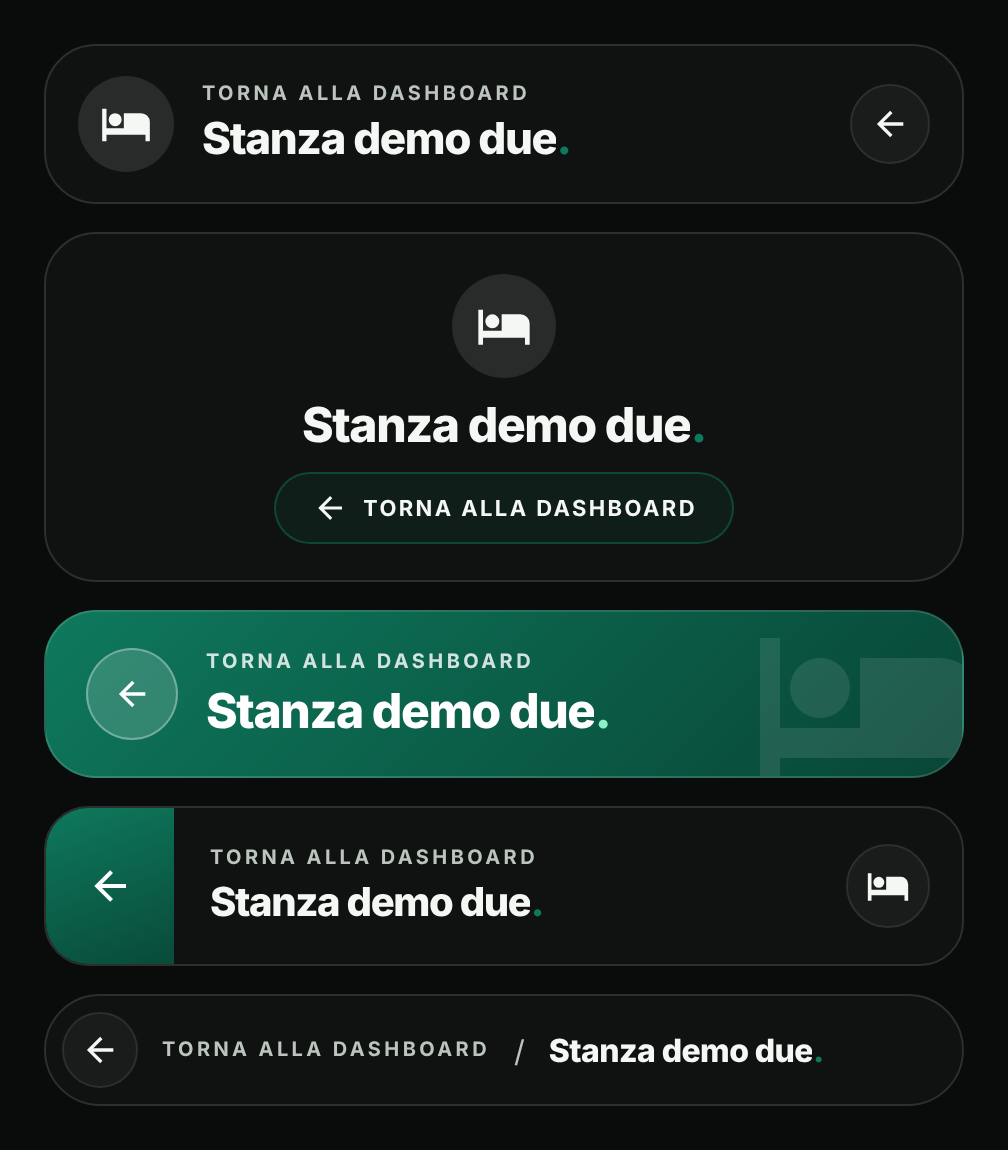
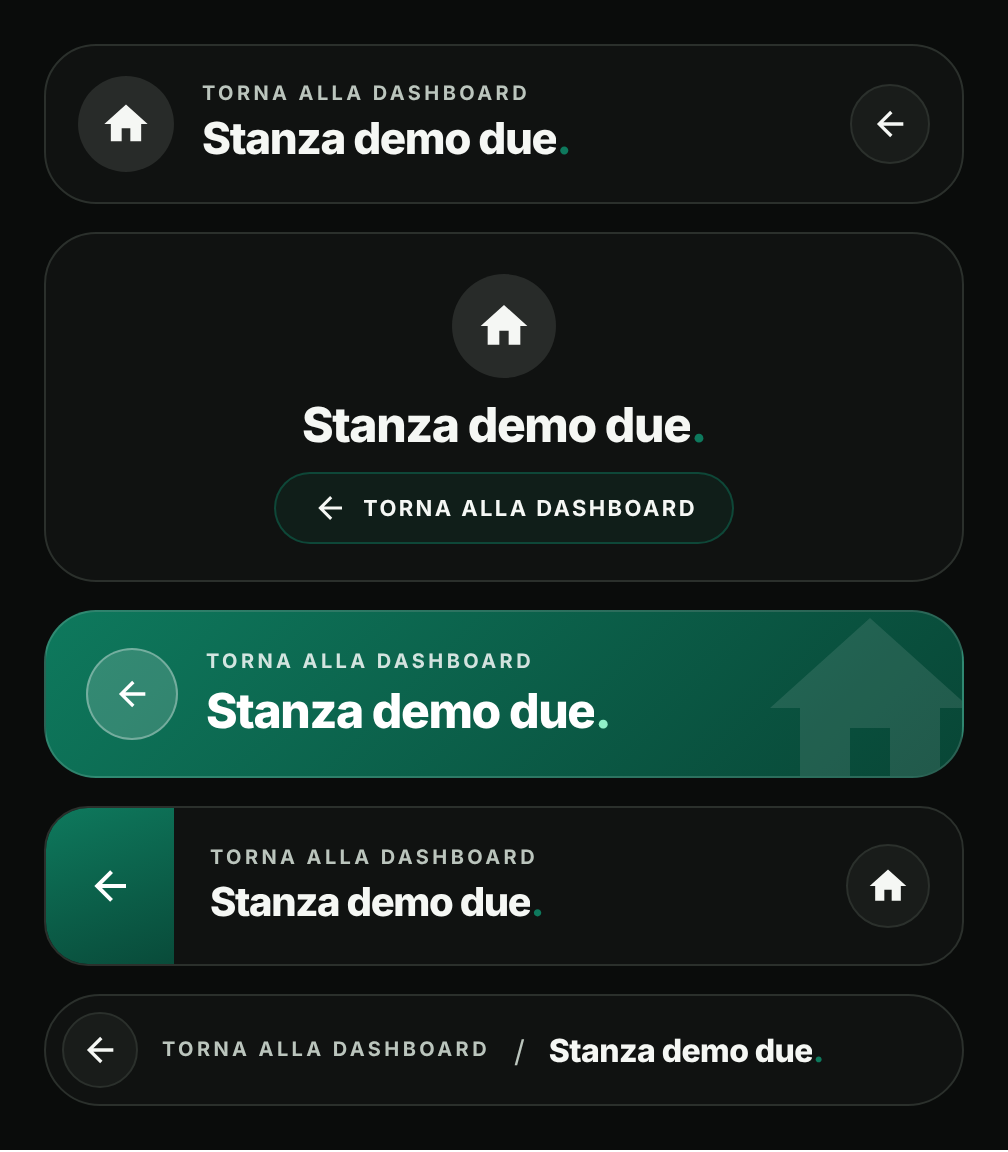
Update Home Return Card to 1.1

diff --git a/dist/home-return-card.js b/dist/home-return-card.js
@@ -6,14 +6,23 @@
 const HR_TAG = 'home-return-card';
 const HR_EDITOR_TAG = 'home-return-card-editor';
 const HR_STYLES = Object.freeze(['row', 'centered', 'solid', 'split', 'slim']);
+const HR_DENSITIES = Object.freeze({ standard: 'Standard', thin: 'Sottile' });
 const HR_STYLE_LABEL = Object.freeze({
   row: 'Riga con freccia', centered: 'Centrata', solid: 'Smeraldo pieno', split: 'Pannello freccia', slim: 'Percorso sottile',
 });
 const HR_DEFAULTS = Object.freeze({
-  style: 'row', navigation_path: '', label: 'Torna alla dashboard', title: '',
-  show_name: false, name: 'Home Return Card', icon: '', auto_page: true, theme_mode: 'auto',
+  style: 'row', density: 'standard', navigation_path: '', label: 'Torna alla dashboard', title: '',
+  arrow: 'left', show_name: false, name: 'HOME RETURN CARD', icon: '', auto_page: true, theme_mode: 'auto',
 });
-const HR_FALLBACK_ICON = 'mdi:floor-plan';
+const HR_FALLBACK_ICON = 'mdi:view-dashboard';
+// Arrow shown on the button: the user chooses it in the editor. "left" is the default.
+const HR_ARROWS = Object.freeze({
+  left: { icon: 'mdi:arrow-left', label: 'Freccia a sinistra' },
+  up: { icon: 'mdi:arrow-up', label: 'Freccia in alto' },
+  return: { icon: 'mdi:keyboard-return', label: 'Ritorno' },
+  check: { icon: 'mdi:check', label: 'Spunta' },
+  exit: { icon: 'mdi:exit-to-app', label: 'Cambio vista' },
+});
 const HR_CACHE = new Map();
 
 function hrText(value, max = 100) { return String(value ?? '').trim().slice(0, max); }
@@ -31,12 +40,20 @@ function hrIconName(value) {
   const v = hrText(value, 80).toLowerCase();
   return /^[a-z0-9-]+:[a-z0-9-]+$/.test(v) ? v : '';
 }
+// Icon of a dashboard as registered in the sidebar (hass.panels[url_path].icon). Optional: returns '' when unavailable.
+function hrDashIcon(hass, dash) {
+  const panels = hass && typeof hass.panels === 'object' ? hass.panels : null;
+  const panel = panels && dash ? panels[dash] : null;
+  return panel && typeof panel === 'object' ? hrIconName(panel.icon) : '';
+}
 function hrConfig(raw = {}) {
   const r = raw && typeof raw === 'object' && !Array.isArray(raw) ? raw : {};
   return {
     type: 'custom:home-return-card',
     style: HR_STYLES.includes(r.style) ? r.style : HR_DEFAULTS.style,
+    density: Object.prototype.hasOwnProperty.call(HR_DENSITIES, r.density) ? r.density : HR_DEFAULTS.density,
     navigation_path: hrPath(r.navigation_path),
+    arrow: Object.prototype.hasOwnProperty.call(HR_ARROWS, r.arrow) ? r.arrow : HR_DEFAULTS.arrow,
     label: hrText(r.label ?? HR_DEFAULTS.label, 60),
     title: hrText(r.title, 60),
     show_name: r.show_name === true,
@@ -109,8 +126,7 @@ ha-icon{display:inline-flex;align-items:center;justify-content:center;flex-shrin
 .hr-go ha-icon{--mdc-icon-size:20px;width:20px;height:20px}
 .hr-text{flex:1;min-width:0;display:flex;flex-direction:column;gap:5px}
 .hr-eyebrow{display:block;font-size:10px;letter-spacing:1.7px;font-weight:750;color:var(--hr-muted);text-transform:uppercase;white-space:nowrap;overflow:hidden;text-overflow:ellipsis}
-.hr-name{display:flex;min-width:0;height:24px;align-items:center;margin:0 4px 9px;font-size:16px;line-height:1.2;font-weight:780;letter-spacing:-.4px;color:var(--hr-fg)}
-.hr-name .hr-nt{min-width:0;overflow:hidden;text-overflow:ellipsis;white-space:nowrap}.hr-name b{flex:none;color:var(--hr-accent);font-weight:800}
+.hr-name{display:block;height:14px;margin:0 4px 10px;font-size:10px;line-height:14px;letter-spacing:1.7px;font-weight:750;color:var(--hr-muted);text-transform:uppercase;white-space:nowrap;overflow:hidden;text-overflow:ellipsis}
 .hr-title{display:flex;min-width:0;font-size:22px;line-height:1.14;font-weight:780;letter-spacing:-.7px}
 .hr-title .hr-t{min-width:0;overflow:hidden;text-overflow:ellipsis;white-space:nowrap}
 .hr-title b{flex:none;color:var(--hr-accent);font-weight:800}
@@ -147,6 +163,20 @@ ha-icon{display:inline-flex;align-items:center;justify-content:center;flex-shrin
 .hr-slim .hr-eyebrow{flex:none;max-width:45%}
 .hr-sep{flex:none;color:var(--hr-muted);font-size:15px}
 .hr-slim .hr-title{flex:1;font-size:16px;letter-spacing:-.3px}
+/* Altezza sottile: stessi elementi, spazi e cerchi più piccoli (l'area di tocco resta di almeno 46 px) */
+.hr-thin.hr-row{padding:8px 14px;gap:12px;border-radius:22px;min-height:56px}
+.hr-thin.hr-row .hr-orb{width:38px;height:38px}.hr-thin.hr-row .hr-orb ha-icon{--mdc-icon-size:21px;width:21px;height:21px}
+.hr-thin .hr-text{gap:2px}.hr-thin.hr-row .hr-title{font-size:18px}.hr-thin.hr-row .hr-go{width:34px;height:34px}
+.hr-thin.hr-centered{padding:12px 14px;gap:6px;border-radius:22px;min-height:56px}
+.hr-thin.hr-centered .hr-orb{width:40px;height:40px}.hr-thin.hr-centered .hr-orb ha-icon{--mdc-icon-size:22px;width:22px;height:22px}
+.hr-thin.hr-centered .hr-title{font-size:20px}.hr-thin .hr-pill{min-height:30px;padding:5px 14px}
+.hr-thin.hr-solid{padding:9px 16px;gap:12px;border-radius:22px;min-height:56px}
+.hr-thin.hr-solid .hr-title{font-size:19px}.hr-thin.hr-solid .hr-go{width:38px;height:38px}
+.hr-thin .hr-mark{right:-10px;top:-8px}.hr-thin .hr-mark ha-icon{--mdc-icon-size:84px;width:84px;height:84px}
+.hr-thin.hr-split{min-height:56px;border-radius:20px}.hr-thin .hr-pan{width:52px}
+.hr-thin .hr-body{padding:8px 14px 8px 16px}.hr-thin.hr-split .hr-title{font-size:17px}
+.hr-thin.hr-split .hr-orb{width:34px;height:34px}.hr-thin.hr-split .hr-orb ha-icon{--mdc-icon-size:19px;width:19px;height:19px}
+.hr-thin.hr-slim{min-height:46px;padding:5px 16px 5px 6px}.hr-thin.hr-slim .hr-go{width:32px;height:32px}.hr-thin.hr-slim .hr-title{font-size:15px}
 @container hr-card (max-width:340px){
   .hr-row{padding:12px 13px;gap:11px;border-radius:23px}.hr-row .hr-orb{width:42px;height:42px}.hr-row .hr-orb ha-icon{--mdc-icon-size:23px;width:23px;height:23px}
   .hr-row .hr-title{font-size:20px}.hr-go{width:36px;height:36px}
@@ -186,6 +216,8 @@ class HomeReturnCard extends HTMLElement {
   setConfig(raw) { this._config = hrConfig(raw); this._asked = ''; this._last = ''; this._paint(); this._ensurePage(); }
   set hass(hass) { this._hass = hass; this._paint(); this._ensurePage(); }
   getCardSize() { return 2; }
+  // Sections view: full width (also in wide sections). Rows are left undefined so the card keeps its own height.
+  getGridOptions() { return { columns: 'full' }; }
   _isDark() {
     const mode = this._config.theme_mode;
     return mode === 'dark' || (mode === 'auto' && (this._hass?.themes?.darkMode === true || (!this._hass?.themes && this._media?.matches === true)));
@@ -197,7 +229,9 @@ class HomeReturnCard extends HTMLElement {
     const loc = this._loc();
     const cached = HR_CACHE.get(loc.dash)?.config;
     const info = cached ? hrPageInfo(cached, loc) : { title: hrHumanize(loc.view) || hrHumanize(loc.dash), icon: '' };
-    return { title: this._config.title || info.title, icon: this._config.icon || info.icon || HR_FALLBACK_ICON };
+    const dash = this._config.navigation_path ? hrSplitLocation(this._config.navigation_path).dash : loc.dash;
+    const icon = this._config.icon || hrDashIcon(this._hass, dash) || info.icon || HR_FALLBACK_ICON;
+    return { title: this._config.title || info.title, icon };
   }
   _ensurePage() {
     const c = this._config, hass = this._hass;
@@ -214,10 +248,10 @@ class HomeReturnCard extends HTMLElement {
     const sig = JSON.stringify([c, dark, page]);
     if (sig === this._last) return;
     this._last = sig;
-    this.shadowRoot.innerHTML = `<style>${HR_STYLE}</style><div class="hr-theme ${dark ? 'hr-dark' : 'hr-light'}"><div class="hr-host">${c.show_name ? `<div class="hr-name"><span class="hr-nt">${hrEsc(c.name)}</span><b>.</b></div>` : ''}${this._button(c, page)}</div></div>`;
+    this.shadowRoot.innerHTML = `<style>${HR_STYLE}</style><div class="hr-theme ${dark ? 'hr-dark' : 'hr-light'}"><div class="hr-host">${c.show_name ? `<div class="hr-name">${hrEsc(c.name)}</div>` : ''}${this._button(c, page)}</div></div>`;
   }
   _button(c, page) {
-    const arrow = '<ha-icon icon="mdi:arrow-left"></ha-icon>';
+    const arrow = `<ha-icon icon="${HR_ARROWS[c.arrow].icon}"></ha-icon>`;
     const room = `<ha-icon icon="${hrEsc(page.icon)}"></ha-icon>`;
     const label = c.label ? `<span class="hr-eyebrow">${hrEsc(c.label)}</span>` : '';
     const title = page.title ? `<span class="hr-title"><span class="hr-t">${hrEsc(page.title)}</span><b>.</b></span>` : '';
@@ -225,7 +259,7 @@ class HomeReturnCard extends HTMLElement {
     const notext = text ? '' : ' hr-notext';
     const off = c.navigation_path ? '' : ' hr-off';
     const name = `${c.label || HR_DEFAULTS.label}${page.title ? `, da ${page.title}` : ''}`;
-    const open = `<button type="button" class="hr-btn hr-${c.style}${notext}${off}" aria-label="${hrEsc(name)}"${c.navigation_path ? '' : ' aria-disabled="true" title="Scegli la destinazione nell’editor"'}>`;
+    const open = `<button type="button" class="hr-btn hr-${c.style}${c.density === 'thin' ? ' hr-thin' : ''}${notext}${off}" aria-label="${hrEsc(name)}"${c.navigation_path ? '' : ' aria-disabled="true" title="Scegli la destinazione nell’editor"'}>`;
     const block = text ? `<span class="hr-text">${text}</span>` : '';
     switch (c.style) {
       case 'centered':
@@ -309,11 +343,13 @@ class HomeReturnCardEditor extends HTMLElement {
     if (this._tab === 'aspetto') {
       body = '<div class="hr-heading">Aspetto Edera</div><div class="hr-desc">Stile, testi e tema della card. Etichetta e nome della pagina sono sempre visibili; il nome della card è facoltativo.</div>' +
         this._select('style', 'Stile', HR_STYLES.map(s => [s, HR_STYLE_LABEL[s]]), c.style) +
+        this._select('density', 'Altezza', Object.entries(HR_DENSITIES), c.density) +
+        this._select('arrow', 'Freccia', Object.entries(HR_ARROWS).map(([k, v]) => [k, v.label]), c.arrow) +
         this._input('label', 'Etichetta', c.label, 'Il testo piccolo in maiuscolo sopra il nome della pagina.') +
         this._input('title', 'Titolo personalizzato', c.title, 'Lascia vuoto per usare il nome della pagina corrente, con il punto verde finale.') +
-        this._check('show_name', 'name', 'Mostra nome della card', c.show_name, 'Intestazione facoltativa sopra la card, con il punto verde finale. Disattivata di default.') +
+        this._check('show_name', 'name', 'Mostra nome della card', c.show_name, 'Piccola intestazione in maiuscolo sopra la card, come nelle altre card. Disattivata di default.') +
         (c.show_name ? this._input('name', 'Nome della card', c.name) : '') +
-        this._field('Icona', `<div data-host="icon"></div><div class="hr-fallback"><input class="hr-input" type="text" maxlength="80" placeholder="mdi:floor-plan" data-key="icon" value="${hrEsc(c.icon)}"/></div>`, 'Lascia vuoto per usare l’icona della pagina.') +
+        this._field('Icona', `<div data-host="icon"></div><div class="hr-fallback"><input class="hr-input" type="text" maxlength="80" placeholder="mdi:floor-plan" data-key="icon" value="${hrEsc(c.icon)}"/></div>`, 'Lascia vuoto per usare l’icona della dashboard.') +
         this._select('theme_mode', 'Tema', [['auto', 'Auto (Home Assistant)'], ['light', 'Light Edera'], ['dark', 'Dark Edera']], c.theme_mode);
     }
     if (this._tab === 'avanzate') {
@@ -360,4 +396,4 @@ if (typeof window !== 'undefined') {
   window.customCards = window.customCards || [];
   if (!window.customCards.some(c => c.type === HR_TAG)) window.customCards.push({ type: HR_TAG, name: 'Home Return Card', description: 'Riporta alla dashboard principale da ogni pagina, in stile Edera.', preview: true });
 }
-export { hrConfig, hrPath, hrIconName, hrSplitLocation, hrHumanize, hrFindView, hrPageInfo, hrLoadDashboard, hrEsc, HR_CACHE, HR_STYLES };
+export { HomeReturnCard, HR_DENSITIES, HR_ARROWS, hrDashIcon, hrConfig, hrPath, hrIconName, hrSplitLocation, hrHumanize, hrFindView, hrPageInfo, hrLoadDashboard, hrEsc, HR_CACHE, HR_STYLES };

diff --git a/src/home-return-card.js b/src/home-return-card.js
@@ -6,14 +6,23 @@
 const HR_TAG = 'home-return-card';
 const HR_EDITOR_TAG = 'home-return-card-editor';
 const HR_STYLES = Object.freeze(['row', 'centered', 'solid', 'split', 'slim']);
+const HR_DENSITIES = Object.freeze({ standard: 'Standard', thin: 'Sottile' });
 const HR_STYLE_LABEL = Object.freeze({
   row: 'Riga con freccia', centered: 'Centrata', solid: 'Smeraldo pieno', split: 'Pannello freccia', slim: 'Percorso sottile',
 });
 const HR_DEFAULTS = Object.freeze({
-  style: 'row', navigation_path: '', label: 'Torna alla dashboard', title: '',
-  show_name: false, name: 'Home Return Card', icon: '', auto_page: true, theme_mode: 'auto',
+  style: 'row', density: 'standard', navigation_path: '', label: 'Torna alla dashboard', title: '',
+  arrow: 'left', show_name: false, name: 'HOME RETURN CARD', icon: '', auto_page: true, theme_mode: 'auto',
 });
-const HR_FALLBACK_ICON = 'mdi:floor-plan';
+const HR_FALLBACK_ICON = 'mdi:view-dashboard';
+// Arrow shown on the button: the user chooses it in the editor. "left" is the default.
+const HR_ARROWS = Object.freeze({
+  left: { icon: 'mdi:arrow-left', label: 'Freccia a sinistra' },
+  up: { icon: 'mdi:arrow-up', label: 'Freccia in alto' },
+  return: { icon: 'mdi:keyboard-return', label: 'Ritorno' },
+  check: { icon: 'mdi:check', label: 'Spunta' },
+  exit: { icon: 'mdi:exit-to-app', label: 'Cambio vista' },
+});
 const HR_CACHE = new Map();
 
 function hrText(value, max = 100) { return String(value ?? '').trim().slice(0, max); }
@@ -31,12 +40,20 @@ function hrIconName(value) {
   const v = hrText(value, 80).toLowerCase();
   return /^[a-z0-9-]+:[a-z0-9-]+$/.test(v) ? v : '';
 }
+// Icon of a dashboard as registered in the sidebar (hass.panels[url_path].icon). Optional: returns '' when unavailable.
+function hrDashIcon(hass, dash) {
+  const panels = hass && typeof hass.panels === 'object' ? hass.panels : null;
+  const panel = panels && dash ? panels[dash] : null;
+  return panel && typeof panel === 'object' ? hrIconName(panel.icon) : '';
+}
 function hrConfig(raw = {}) {
   const r = raw && typeof raw === 'object' && !Array.isArray(raw) ? raw : {};
   return {
     type: 'custom:home-return-card',
     style: HR_STYLES.includes(r.style) ? r.style : HR_DEFAULTS.style,
+    density: Object.prototype.hasOwnProperty.call(HR_DENSITIES, r.density) ? r.density : HR_DEFAULTS.density,
     navigation_path: hrPath(r.navigation_path),
+    arrow: Object.prototype.hasOwnProperty.call(HR_ARROWS, r.arrow) ? r.arrow : HR_DEFAULTS.arrow,
     label: hrText(r.label ?? HR_DEFAULTS.label, 60),
     title: hrText(r.title, 60),
     show_name: r.show_name === true,
@@ -109,8 +126,7 @@ ha-icon{display:inline-flex;align-items:center;justify-content:center;flex-shrin
 .hr-go ha-icon{--mdc-icon-size:20px;width:20px;height:20px}
 .hr-text{flex:1;min-width:0;display:flex;flex-direction:column;gap:5px}
 .hr-eyebrow{display:block;font-size:10px;letter-spacing:1.7px;font-weight:750;color:var(--hr-muted);text-transform:uppercase;white-space:nowrap;overflow:hidden;text-overflow:ellipsis}
-.hr-name{display:flex;min-width:0;height:24px;align-items:center;margin:0 4px 9px;font-size:16px;line-height:1.2;font-weight:780;letter-spacing:-.4px;color:var(--hr-fg)}
-.hr-name .hr-nt{min-width:0;overflow:hidden;text-overflow:ellipsis;white-space:nowrap}.hr-name b{flex:none;color:var(--hr-accent);font-weight:800}
+.hr-name{display:block;height:14px;margin:0 4px 10px;font-size:10px;line-height:14px;letter-spacing:1.7px;font-weight:750;color:var(--hr-muted);text-transform:uppercase;white-space:nowrap;overflow:hidden;text-overflow:ellipsis}
 .hr-title{display:flex;min-width:0;font-size:22px;line-height:1.14;font-weight:780;letter-spacing:-.7px}
 .hr-title .hr-t{min-width:0;overflow:hidden;text-overflow:ellipsis;white-space:nowrap}
 .hr-title b{flex:none;color:var(--hr-accent);font-weight:800}
@@ -147,6 +163,20 @@ ha-icon{display:inline-flex;align-items:center;justify-content:center;flex-shrin
 .hr-slim .hr-eyebrow{flex:none;max-width:45%}
 .hr-sep{flex:none;color:var(--hr-muted);font-size:15px}
 .hr-slim .hr-title{flex:1;font-size:16px;letter-spacing:-.3px}
+/* Altezza sottile: stessi elementi, spazi e cerchi più piccoli (l'area di tocco resta di almeno 46 px) */
+.hr-thin.hr-row{padding:8px 14px;gap:12px;border-radius:22px;min-height:56px}
+.hr-thin.hr-row .hr-orb{width:38px;height:38px}.hr-thin.hr-row .hr-orb ha-icon{--mdc-icon-size:21px;width:21px;height:21px}
+.hr-thin .hr-text{gap:2px}.hr-thin.hr-row .hr-title{font-size:18px}.hr-thin.hr-row .hr-go{width:34px;height:34px}
+.hr-thin.hr-centered{padding:12px 14px;gap:6px;border-radius:22px;min-height:56px}
+.hr-thin.hr-centered .hr-orb{width:40px;height:40px}.hr-thin.hr-centered .hr-orb ha-icon{--mdc-icon-size:22px;width:22px;height:22px}
+.hr-thin.hr-centered .hr-title{font-size:20px}.hr-thin .hr-pill{min-height:30px;padding:5px 14px}
+.hr-thin.hr-solid{padding:9px 16px;gap:12px;border-radius:22px;min-height:56px}
+.hr-thin.hr-solid .hr-title{font-size:19px}.hr-thin.hr-solid .hr-go{width:38px;height:38px}
+.hr-thin .hr-mark{right:-10px;top:-8px}.hr-thin .hr-mark ha-icon{--mdc-icon-size:84px;width:84px;height:84px}
+.hr-thin.hr-split{min-height:56px;border-radius:20px}.hr-thin .hr-pan{width:52px}
+.hr-thin .hr-body{padding:8px 14px 8px 16px}.hr-thin.hr-split .hr-title{font-size:17px}
+.hr-thin.hr-split .hr-orb{width:34px;height:34px}.hr-thin.hr-split .hr-orb ha-icon{--mdc-icon-size:19px;width:19px;height:19px}
+.hr-thin.hr-slim{min-height:46px;padding:5px 16px 5px 6px}.hr-thin.hr-slim .hr-go{width:32px;height:32px}.hr-thin.hr-slim .hr-title{font-size:15px}
 @container hr-card (max-width:340px){
   .hr-row{padding:12px 13px;gap:11px;border-radius:23px}.hr-row .hr-orb{width:42px;height:42px}.hr-row .hr-orb ha-icon{--mdc-icon-size:23px;width:23px;height:23px}
   .hr-row .hr-title{font-size:20px}.hr-go{width:36px;height:36px}
@@ -186,6 +216,8 @@ class HomeReturnCard extends HTMLElement {
   setConfig(raw) { this._config = hrConfig(raw); this._asked = ''; this._last = ''; this._paint(); this._ensurePage(); }
   set hass(hass) { this._hass = hass; this._paint(); this._ensurePage(); }
   getCardSize() { return 2; }
+  // Sections view: full width (also in wide sections). Rows are left undefined so the card keeps its own height.
+  getGridOptions() { return { columns: 'full' }; }
   _isDark() {
     const mode = this._config.theme_mode;
     return mode === 'dark' || (mode === 'auto' && (this._hass?.themes?.darkMode === true || (!this._hass?.themes && this._media?.matches === true)));
@@ -197,7 +229,9 @@ class HomeReturnCard extends HTMLElement {
     const loc = this._loc();
     const cached = HR_CACHE.get(loc.dash)?.config;
     const info = cached ? hrPageInfo(cached, loc) : { title: hrHumanize(loc.view) || hrHumanize(loc.dash), icon: '' };
-    return { title: this._config.title || info.title, icon: this._config.icon || info.icon || HR_FALLBACK_ICON };
+    const dash = this._config.navigation_path ? hrSplitLocation(this._config.navigation_path).dash : loc.dash;
+    const icon = this._config.icon || hrDashIcon(this._hass, dash) || info.icon || HR_FALLBACK_ICON;
+    return { title: this._config.title || info.title, icon };
   }
   _ensurePage() {
     const c = this._config, hass = this._hass;
@@ -214,10 +248,10 @@ class HomeReturnCard extends HTMLElement {
     const sig = JSON.stringify([c, dark, page]);
     if (sig === this._last) return;
     this._last = sig;
-    this.shadowRoot.innerHTML = `<style>${HR_STYLE}</style><div class="hr-theme ${dark ? 'hr-dark' : 'hr-light'}"><div class="hr-host">${c.show_name ? `<div class="hr-name"><span class="hr-nt">${hrEsc(c.name)}</span><b>.</b></div>` : ''}${this._button(c, page)}</div></div>`;
+    this.shadowRoot.innerHTML = `<style>${HR_STYLE}</style><div class="hr-theme ${dark ? 'hr-dark' : 'hr-light'}"><div class="hr-host">${c.show_name ? `<div class="hr-name">${hrEsc(c.name)}</div>` : ''}${this._button(c, page)}</div></div>`;
   }
   _button(c, page) {
-    const arrow = '<ha-icon icon="mdi:arrow-left"></ha-icon>';
+    const arrow = `<ha-icon icon="${HR_ARROWS[c.arrow].icon}"></ha-icon>`;
     const room = `<ha-icon icon="${hrEsc(page.icon)}"></ha-icon>`;
     const label = c.label ? `<span class="hr-eyebrow">${hrEsc(c.label)}</span>` : '';
     const title = page.title ? `<span class="hr-title"><span class="hr-t">${hrEsc(page.title)}</span><b>.</b></span>` : '';
@@ -225,7 +259,7 @@ class HomeReturnCard extends HTMLElement {
     const notext = text ? '' : ' hr-notext';
     const off = c.navigation_path ? '' : ' hr-off';
     const name = `${c.label || HR_DEFAULTS.label}${page.title ? `, da ${page.title}` : ''}`;
-    const open = `<button type="button" class="hr-btn hr-${c.style}${notext}${off}" aria-label="${hrEsc(name)}"${c.navigation_path ? '' : ' aria-disabled="true" title="Scegli la destinazione nell’editor"'}>`;
+    const open = `<button type="button" class="hr-btn hr-${c.style}${c.density === 'thin' ? ' hr-thin' : ''}${notext}${off}" aria-label="${hrEsc(name)}"${c.navigation_path ? '' : ' aria-disabled="true" title="Scegli la destinazione nell’editor"'}>`;
     const block = text ? `<span class="hr-text">${text}</span>` : '';
     switch (c.style) {
       case 'centered':
@@ -309,11 +343,13 @@ class HomeReturnCardEditor extends HTMLElement {
     if (this._tab === 'aspetto') {
       body = '<div class="hr-heading">Aspetto Edera</div><div class="hr-desc">Stile, testi e tema della card. Etichetta e nome della pagina sono sempre visibili; il nome della card è facoltativo.</div>' +
         this._select('style', 'Stile', HR_STYLES.map(s => [s, HR_STYLE_LABEL[s]]), c.style) +
+        this._select('density', 'Altezza', Object.entries(HR_DENSITIES), c.density) +
+        this._select('arrow', 'Freccia', Object.entries(HR_ARROWS).map(([k, v]) => [k, v.label]), c.arrow) +
         this._input('label', 'Etichetta', c.label, 'Il testo piccolo in maiuscolo sopra il nome della pagina.') +
         this._input('title', 'Titolo personalizzato', c.title, 'Lascia vuoto per usare il nome della pagina corrente, con il punto verde finale.') +
-        this._check('show_name', 'name', 'Mostra nome della card', c.show_name, 'Intestazione facoltativa sopra la card, con il punto verde finale. Disattivata di default.') +
+        this._check('show_name', 'name', 'Mostra nome della card', c.show_name, 'Piccola intestazione in maiuscolo sopra la card, come nelle altre card. Disattivata di default.') +
         (c.show_name ? this._input('name', 'Nome della card', c.name) : '') +
-        this._field('Icona', `<div data-host="icon"></div><div class="hr-fallback"><input class="hr-input" type="text" maxlength="80" placeholder="mdi:floor-plan" data-key="icon" value="${hrEsc(c.icon)}"/></div>`, 'Lascia vuoto per usare l’icona della pagina.') +
+        this._field('Icona', `<div data-host="icon"></div><div class="hr-fallback"><input class="hr-input" type="text" maxlength="80" placeholder="mdi:floor-plan" data-key="icon" value="${hrEsc(c.icon)}"/></div>`, 'Lascia vuoto per usare l’icona della dashboard.') +
         this._select('theme_mode', 'Tema', [['auto', 'Auto (Home Assistant)'], ['light', 'Light Edera'], ['dark', 'Dark Edera']], c.theme_mode);
     }
     if (this._tab === 'avanzate') {
@@ -360,4 +396,4 @@ if (typeof window !== 'undefined') {
   window.customCards = window.customCards || [];
   if (!window.customCards.some(c => c.type === HR_TAG)) window.customCards.push({ type: HR_TAG, name: 'Home Return Card', description: 'Riporta alla dashboard principale da ogni pagina, in stile Edera.', preview: true });
 }
-export { hrConfig, hrPath, hrIconName, hrSplitLocation, hrHumanize, hrFindView, hrPageInfo, hrLoadDashboard, hrEsc, HR_CACHE, HR_STYLES };
+export { HomeReturnCard, HR_DENSITIES, HR_ARROWS, hrDashIcon, hrConfig, hrPath, hrIconName, hrSplitLocation, hrHumanize, hrFindView, hrPageInfo, hrLoadDashboard, hrEsc, HR_CACHE, HR_STYLES };

diff --git a/README.md b/README.md
@@ -8,7 +8,7 @@
 
 **Home Return Card** is a navigation card for Home Assistant dashboards, designed with a minimalist interface inspired by the Edera Light and Dark visual styles.
 
-It does one thing: it takes you back to your main dashboard from any page. It reads the name of the page you are on, such as *Stanza demo uno* or *Stanza demo due*, and shows it with the label *Torna alla dashboard*, so the same card can be placed on every page.
+It does one thing: it takes you back to your main dashboard from any page. It reads the name of the page you are on, such as *Stanza demo uno* or *Stanza demo due*, and shows it with the label *Torna alla dashboard* and the icon of your dashboard, so the same card can be placed on every page.
 
 The card only changes page: it never sends commands to your devices. It does not require a dedicated account, external services or additional libraries.
 
@@ -22,10 +22,14 @@ The card only changes page: it never sends commands to your devices. It does not
 
 ## Features
 
-- **Current page name:** Reads the name and icon of the page you are on from the dashboard configuration. If the dashboard configuration cannot be read, the name is derived from the page address.
+- **Current page name:** Reads the name of the page you are on from the dashboard configuration. If the dashboard configuration cannot be read, the name is derived from the page address.
+- **Dashboard icon:** By default the card shows the icon of your dashboard, as set in the Home Assistant sidebar, and falls back to the icon of the page. You can choose another icon.
 - **Five styles:** Row with arrow, Centered, Solid emerald, Arrow panel and Slim path, selectable from the visual editor.
 - **Destination of your choice:** Pick the dashboard or view to return to with the Home Assistant navigation picker. Only internal Home Assistant paths are accepted.
-- **Customizable texts:** The label and the page title are always shown and can be changed. An optional card name can be turned on; it is off by default.
+- **Standard or slim height:** The default size is unchanged; a slimmer version of every style can be selected.
+- **Arrow of your choice:** Left arrow (default), up arrow, return, check mark or view change.
+- **Customizable texts:** The label and the page title are always shown and can be changed. An optional card name, written as the small uppercase header of the other Edera cards, can be turned on; it is off by default.
+- **Full width:** In the sections view the card takes the full width of the section.
 - **Stable layout:** The card is drawn from what is already known when it appears, so it does not change size when the page name is loaded.
 - **Visual configuration:** Configure the card through the Home Assistant dashboard editor, without writing YAML.
 - **Edera appearance:** Automatic, Light and Dark themes with Home Assistant Material Design Icons.
@@ -69,7 +73,7 @@ If the `www` directory was just created, Home Assistant may need to be restarted
 Open a dashboard in edit mode, add **Home Return Card** and configure it. The editor has three sections:
 
 - **Destinazione:** the dashboard or view the card returns to.
-- **Aspetto:** style, label, title, optional card name, icon and theme.
+- **Aspetto:** style, height, arrow, label, title, optional card name, icon and theme.
 - **Avanzate:** reading of the page name and icon, and a manual destination path.
 
 ### Example YAML configuration
@@ -88,11 +92,13 @@ navigation_path: /dashboard-demo
 |---|---|
 | `navigation_path` | Internal path the card returns to, for example `/dashboard-demo`. It must start with `/`. Without it, the card does nothing when tapped. |
 | `style` | `row`, `centered`, `solid`, `split` or `slim`. Default: `row`. |
+| `density` | `standard` or `thin` (slimmer card). Default: `standard`. |
+| `arrow` | `left`, `up`, `return`, `check` or `exit`. Default: `left`. |
 | `label` | Small uppercase text above the page name. Default: `Torna alla dashboard`. |
 | `title` | Custom title. Leave empty to show the name of the current page. |
-| `show_name` | Show the card name above the card. Default: `false`. |
-| `name` | Card name shown when `show_name` is enabled. Default: `Home Return Card`. |
-| `icon` | Custom icon, for example `mdi:door`. Leave empty to use the icon of the page. |
+| `show_name` | Show the card name as a small uppercase header above the card. Default: `false`. |
+| `name` | Card name shown when `show_name` is enabled. Default: `HOME RETURN CARD`. |
+| `icon` | Custom icon, for example `mdi:door`. Leave empty to use the icon of the dashboard. |
 | `auto_page` | Read the page name and icon from the dashboard configuration. Default: `true`. |
 | `theme_mode` | `auto`, `light` or `dark`. |
 
